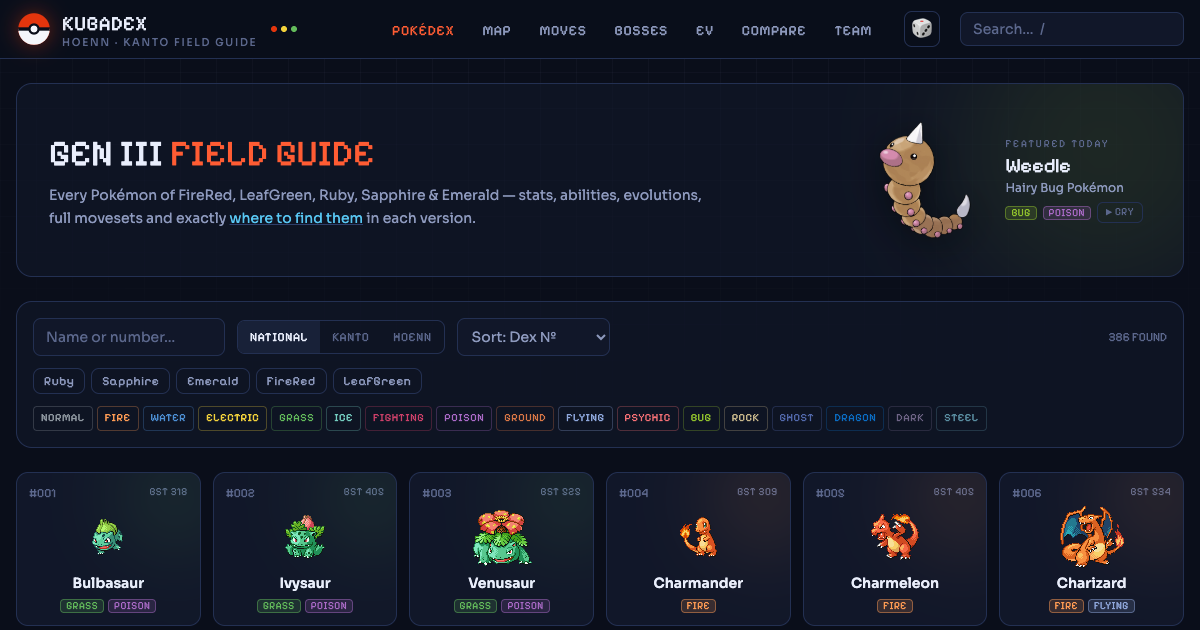
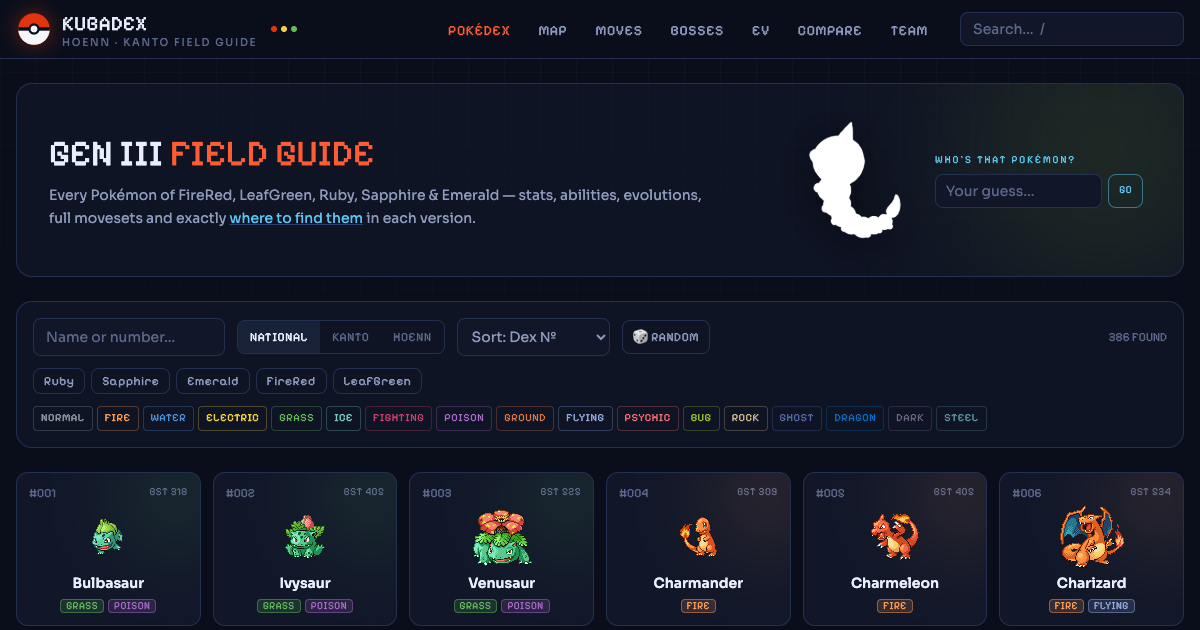
Turn daily pokemon into a Who's That Pokemon guessing game
- Home hero: white silhouette + guess input; correct answer reveals the
  art, info and plays the cry; misses shake and unlock hints (types,
  then genus, then a give-up reveal); result persists for the day
- Move the random button from the header into the dex filter bar
- EV hotspots: full-size gen3 sprites in encounter chips (like bosses)

Changed region(s): [[0.6783, 0.181, 0.9558, 0.3921], [0.3083, 0.0302, 0.8017, 0.0603], [0.5242, 0.5127, 0.5858, 0.5429]]

diff --git a/src/views/PokedexView.vue b/src/views/PokedexView.vue
@@ -1,5 +1,6 @@
 <script setup>
 import { ref, computed, onMounted } from 'vue'
+import { useRouter } from 'vue-router'
 import { loadIndex } from '../lib/api'
 import { TYPES } from '../lib/typeChart'
 import { GAMES, GAME_ORDER } from '../data/games'
@@ -16,10 +17,61 @@ onMounted(async () => {
   loaded.value = true
 })
 
-// deterministic "featured today" pick
+const router = useRouter()
+const goRandom = () => router.push(`/pokemon/${Math.floor(Math.random() * 386) + 1}`)
+
+// ---- Who's that Pokémon? — deterministic daily pick, guess to reveal ----
 const now = new Date()
 const featuredId = (now.getFullYear() * 372 + (now.getMonth() + 1) * 31 + now.getDate()) % 386 + 1
 const featured = computed(() => index.value.find((p) => p.id === featuredId))
+
+const WTP_KEY = 'dex3-wtp'
+const dateKey = `${now.getFullYear()}-${now.getMonth() + 1}-${now.getDate()}`
+const solved = ref(false)
+const gaveUp = ref(false)
+const misses = ref(0)
+try {
+  const saved = JSON.parse(localStorage.getItem(WTP_KEY))
+  if (saved?.date === dateKey) {
+    solved.value = !!saved.solved
+    gaveUp.value = !!saved.gaveUp
+    misses.value = saved.misses ?? 0
+  }
+} catch { /* fresh day */ }
+const saveWtp = () =>
+  localStorage.setItem(WTP_KEY, JSON.stringify({ date: dateKey, solved: solved.value, gaveUp: gaveUp.value, misses: misses.value }))
+
+const guess = ref('')
+const wrongShake = ref(0) // increments to retrigger the shake animation
+const guessMsg = ref('')
+const revealed = computed(() => solved.value || gaveUp.value)
+
+const normalize = (s) => s.toLowerCase().replace(/[^a-z0-9]/g, '')
+
+function submitGuess() {
+  const q = normalize(guess.value)
+  if (!q || !featured.value) return
+  if (q === normalize(featured.value.name) || q === normalize(featured.value.label)) {
+    solved.value = true
+    guessMsg.value = ''
+    saveWtp()
+    playCry()
+    return
+  }
+  const known = index.value.some((p) => normalize(p.name) === q || normalize(p.label) === q)
+  guessMsg.value = known ? 'Nope, that’s not it!' : 'No such Pokémon in this dex…'
+  misses.value++
+  wrongShake.value++
+  guess.value = ''
+  saveWtp()
+}
+
+function giveUp() {
+  gaveUp.value = true
+  guessMsg.value = ''
+  saveWtp()
+}
+
 const crying = ref(false)
 function playCry() {
   const audio = new Audio(cryUrl(featuredId))
@@ -97,19 +149,51 @@ const hasFilters = computed(() => query.value || selectedTypes.value.length || g
           </p>
         </div>
 
-        <!-- featured today -->
+        <!-- Who's that Pokémon? -->
         <div v-if="featured" class="flex shrink-0 items-center gap-4 sm:pr-2">
-          <RouterLink :to="`/pokemon/${featured.id}`" class="group">
+          <component
+            :is="revealed ? 'router-link' : 'div'"
+            :to="revealed ? `/pokemon/${featured.id}` : undefined"
+            class="group relative"
+          >
             <img
               :src="spriteUrl(featured.id, 'art')"
-              :alt="featured.label"
-              class="size-28 object-contain drop-shadow-[0_6px_18px_rgba(0,0,0,0.5)] transition-transform duration-300 group-hover:scale-110 sm:size-32"
+              :alt="revealed ? featured.label : '???'"
+              class="size-28 object-contain drop-shadow-[0_6px_18px_rgba(0,0,0,0.5)] transition-all duration-500 sm:size-32"
+              :class="revealed ? 'group-hover:scale-110' : 'brightness-0 invert'"
+              draggable="false"
             />
-          </RouterLink>
-          <div>
-            <p class="font-display text-[10px] tracking-[0.2em] text-dim">FEATURED TODAY</p>
+          </component>
+
+          <!-- unsolved: the quiz -->
+          <div v-if="!revealed" class="w-52">
+            <p class="font-display text-[10px] tracking-[0.2em] text-lens">WHO'S THAT POKÉMON?</p>
+            <form class="mt-1.5 flex gap-1.5" :key="wrongShake" :class="wrongShake ? 'shake' : ''" @submit.prevent="submitGuess">
+              <input
+                v-model="guess"
+                type="text"
+                placeholder="Your guess…"
+                autocomplete="off"
+                class="w-full min-w-0 rounded-lg border border-line bg-panel px-2.5 py-1.5 text-sm text-ink outline-none placeholder:text-dim focus:border-lens"
+              />
+              <button type="submit" class="rounded-lg border border-lens/50 px-2.5 font-display text-[10px] tracking-wider text-lens transition-colors hover:bg-lens/10">GO</button>
+            </form>
+            <p v-if="guessMsg" class="mt-1 text-[11px] text-[#e0564b]">{{ guessMsg }}</p>
+            <div v-if="misses >= 1" class="mt-1.5 flex items-center gap-1.5">
+              <span class="font-display text-[9px] tracking-wider text-dim">HINT</span>
+              <TypeBadge v-for="t in featured.types" :key="t" :type="t" size="sm" />
+              <span v-if="misses >= 2" class="text-[11px] text-muted">{{ featured.genus }}</span>
+            </div>
+            <button v-if="misses >= 3" class="mt-1.5 text-[11px] text-dim underline hover:text-muted" @click="giveUp">I give up, show me</button>
+          </div>
+
+          <!-- revealed -->
+          <div v-else>
+            <p class="font-display text-[10px] tracking-[0.2em]" :class="solved ? 'text-[#7ac74c]' : 'text-dim'">
+              {{ solved ? "IT'S…" : 'IT WAS…' }}
+            </p>
             <RouterLink :to="`/pokemon/${featured.id}`" class="font-display text-xl text-ink transition-colors hover:text-dexglow">
-              {{ featured.label }}
+              {{ featured.label }}<span v-if="solved">!</span>
             </RouterLink>
             <p class="text-xs text-muted">{{ featured.genus }}</p>
             <div class="mt-1.5 flex items-center gap-1.5">
@@ -148,6 +232,11 @@ const hasFilters = computed(() => query.value || selectedTypes.value.length || g
         >
           <option v-for="s in SORTS" :key="s.id" :value="s.id">Sort: {{ s.label }}</option>
         </select>
+        <button
+          class="rounded-lg border border-line px-2.5 py-2 font-display text-xs tracking-wider text-muted transition-all hover:border-dex hover:text-dexglow"
+          title="Open a random Pokémon"
+          @click="goRandom"
+        >🎲 RANDOM</button>
         <button v-if="hasFilters" class="text-xs text-dim underline hover:text-muted" @click="reset">reset</button>
         <span class="ml-auto font-display text-xs text-dim">{{ filtered.length }} FOUND</span>
       </div>
@@ -191,3 +280,15 @@ const hasFilters = computed(() => query.value || selectedTypes.value.length || g
     </div>
   </div>
 </template>
+
+<style scoped>
+.shake {
+  animation: shake 0.4s ease;
+}
+@keyframes shake {
+  0%, 100% { transform: translateX(0); }
+  25% { transform: translateX(-5px); }
+  50% { transform: translateX(5px); }
+  75% { transform: translateX(-3px); }
+}
+</style>

diff --git a/src/views/EvHotspotsView.vue b/src/views/EvHotspotsView.vue
@@ -105,11 +105,13 @@ const maxEv = computed(() => hotspots.value[0]?.ev ?? 1)
           <RouterLink
             v-for="m in h.mons" :key="m.id"
             :to="`/pokemon/${m.id}`"
-            class="flex items-center gap-1.5 rounded-lg border border-line bg-bg/40 py-1 pl-1 pr-2 transition-colors hover:border-line2 hover:bg-panel2"
+            class="group/mon flex items-center gap-2 rounded-lg border border-line bg-bg/40 py-1 pl-1.5 pr-2.5 transition-colors hover:border-line2 hover:bg-panel2"
           >
-            <img :src="spriteUrl(m.id, 'icons')" class="pixelated size-6" :alt="m.name" />
-            <span class="text-xs text-ink">{{ m.name }}</span>
-            <span class="font-display text-[10px] text-dim">+{{ m.yield }} · {{ m.chance }}%</span>
+            <img :src="spriteUrl(m.id, 'gen3')" class="pixelated size-12 object-contain transition-transform duration-200 group-hover/mon:scale-110" :alt="m.name" />
+            <span class="flex flex-col leading-tight">
+              <span class="text-xs font-medium text-ink">{{ m.name }}</span>
+              <span class="font-display text-[10px] text-dim">+{{ m.yield }} EV · {{ m.chance }}%</span>
+            </span>
           </RouterLink>
         </div>
       </section>

diff --git a/src/components/AppHeader.vue b/src/components/AppHeader.vue
@@ -89,13 +89,6 @@ const links = [
         >{{ l.label }}</RouterLink>
       </nav>
 
-      <!-- random pokemon -->
-      <button
-        class="order-2 grid size-9 shrink-0 place-items-center rounded-lg border border-line text-base text-muted transition-all hover:rotate-12 hover:border-dex hover:text-dexglow sm:order-none"
-        title="Random Pokémon"
-        @click="router.push(`/pokemon/${Math.floor(Math.random() * 386) + 1}`)"
-      >🎲</button>
-
       <!-- global search: shares the top row with the logo on mobile -->
       <div class="relative order-2 min-w-0 flex-1 sm:order-none sm:w-56 sm:flex-none">
         <input
